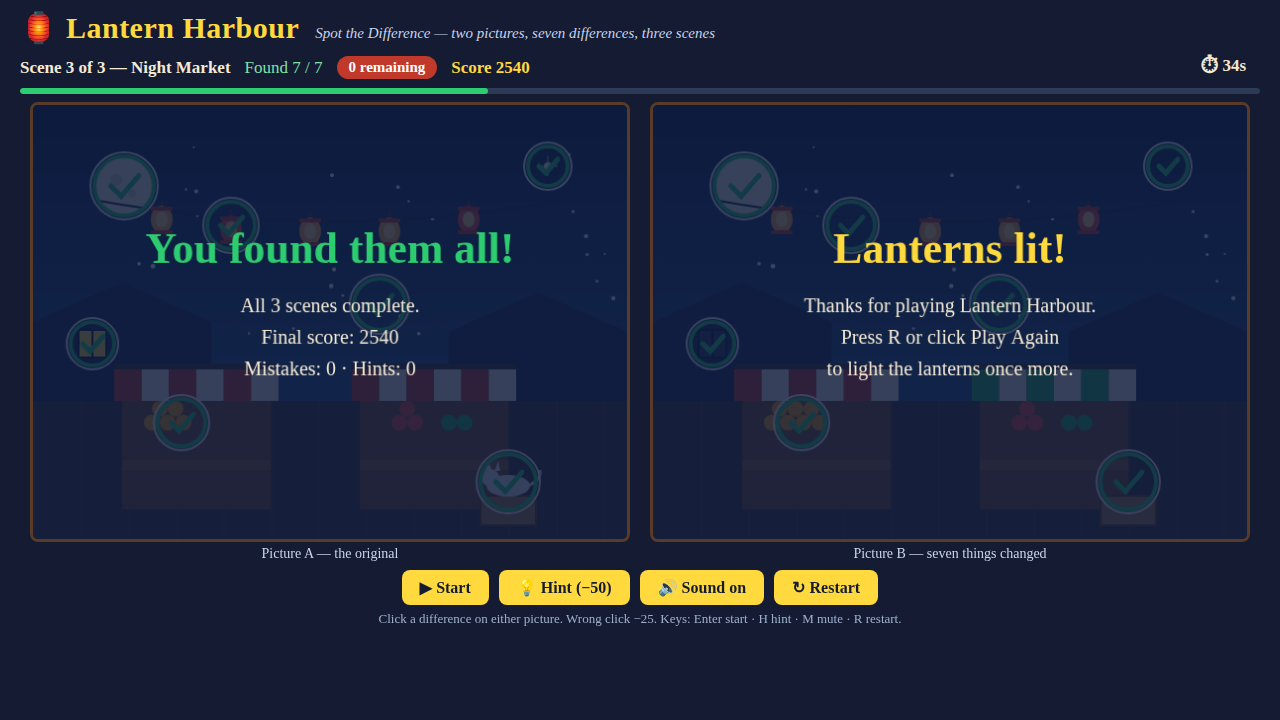
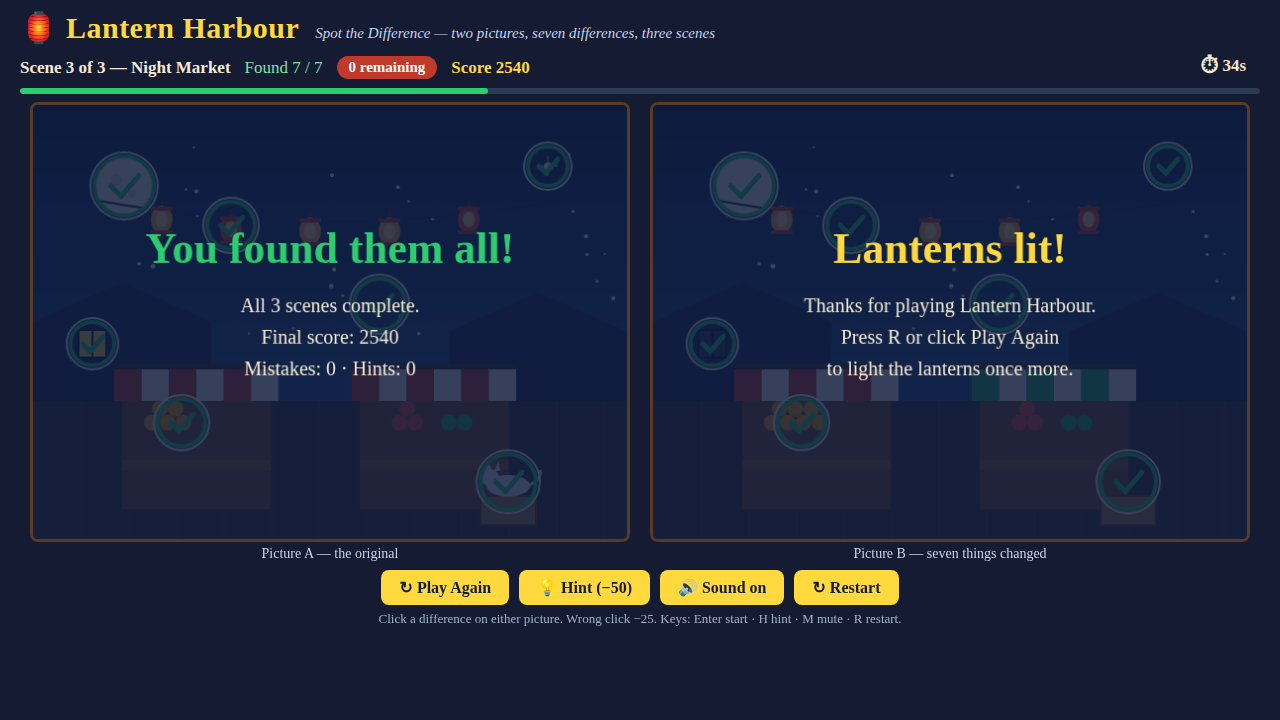
Contextual Start button: Next Scene / Play Again

Changed region(s): [[0.2812, 0.7639, 0.7188, 0.8556]]

diff --git a/game/src/game.js b/game/src/game.js
@@ -132,12 +132,26 @@
 
   function refresh() {
     updateHud();
+    updateStartButton();
     if (game.status === 'title') {
       showTitle();
     } else if (game.status === 'playing') {
       paint();
     } else {
       showEndScreen();
+    }
+  }
+
+  // The main button always says what it will do next: start the game,
+  // move to the next scene, or play again after a win or a time-out.
+  function updateStartButton() {
+    var btn = $('btn-start');
+    if (game.status === 'levelClear') {
+      btn.textContent = 'Next Scene ▶';
+    } else if (game.status === 'win' || game.status === 'gameover') {
+      btn.textContent = '↻ Play Again';
+    } else {
+      btn.textContent = '▶ Start';
     }
   }
 
